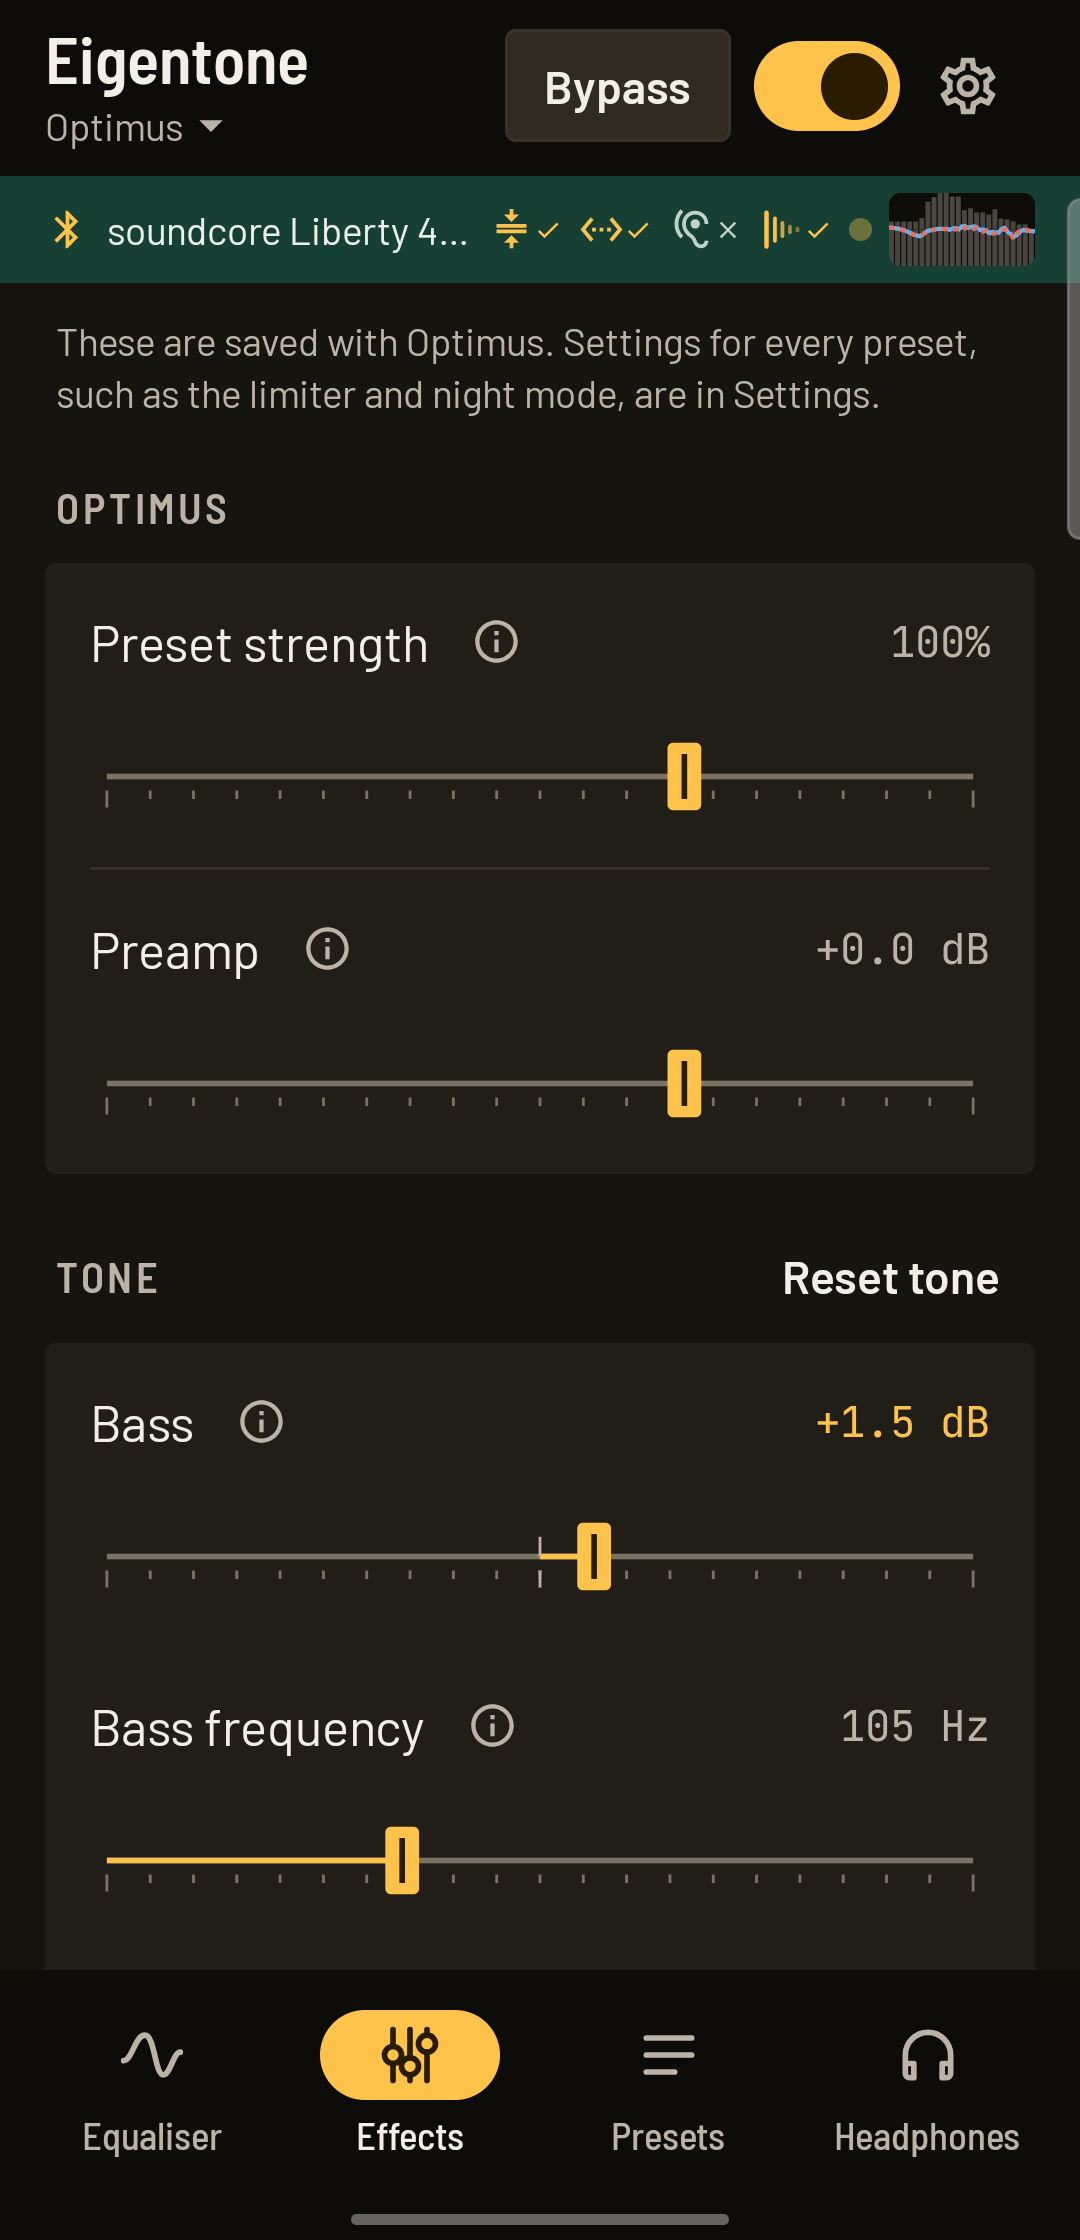
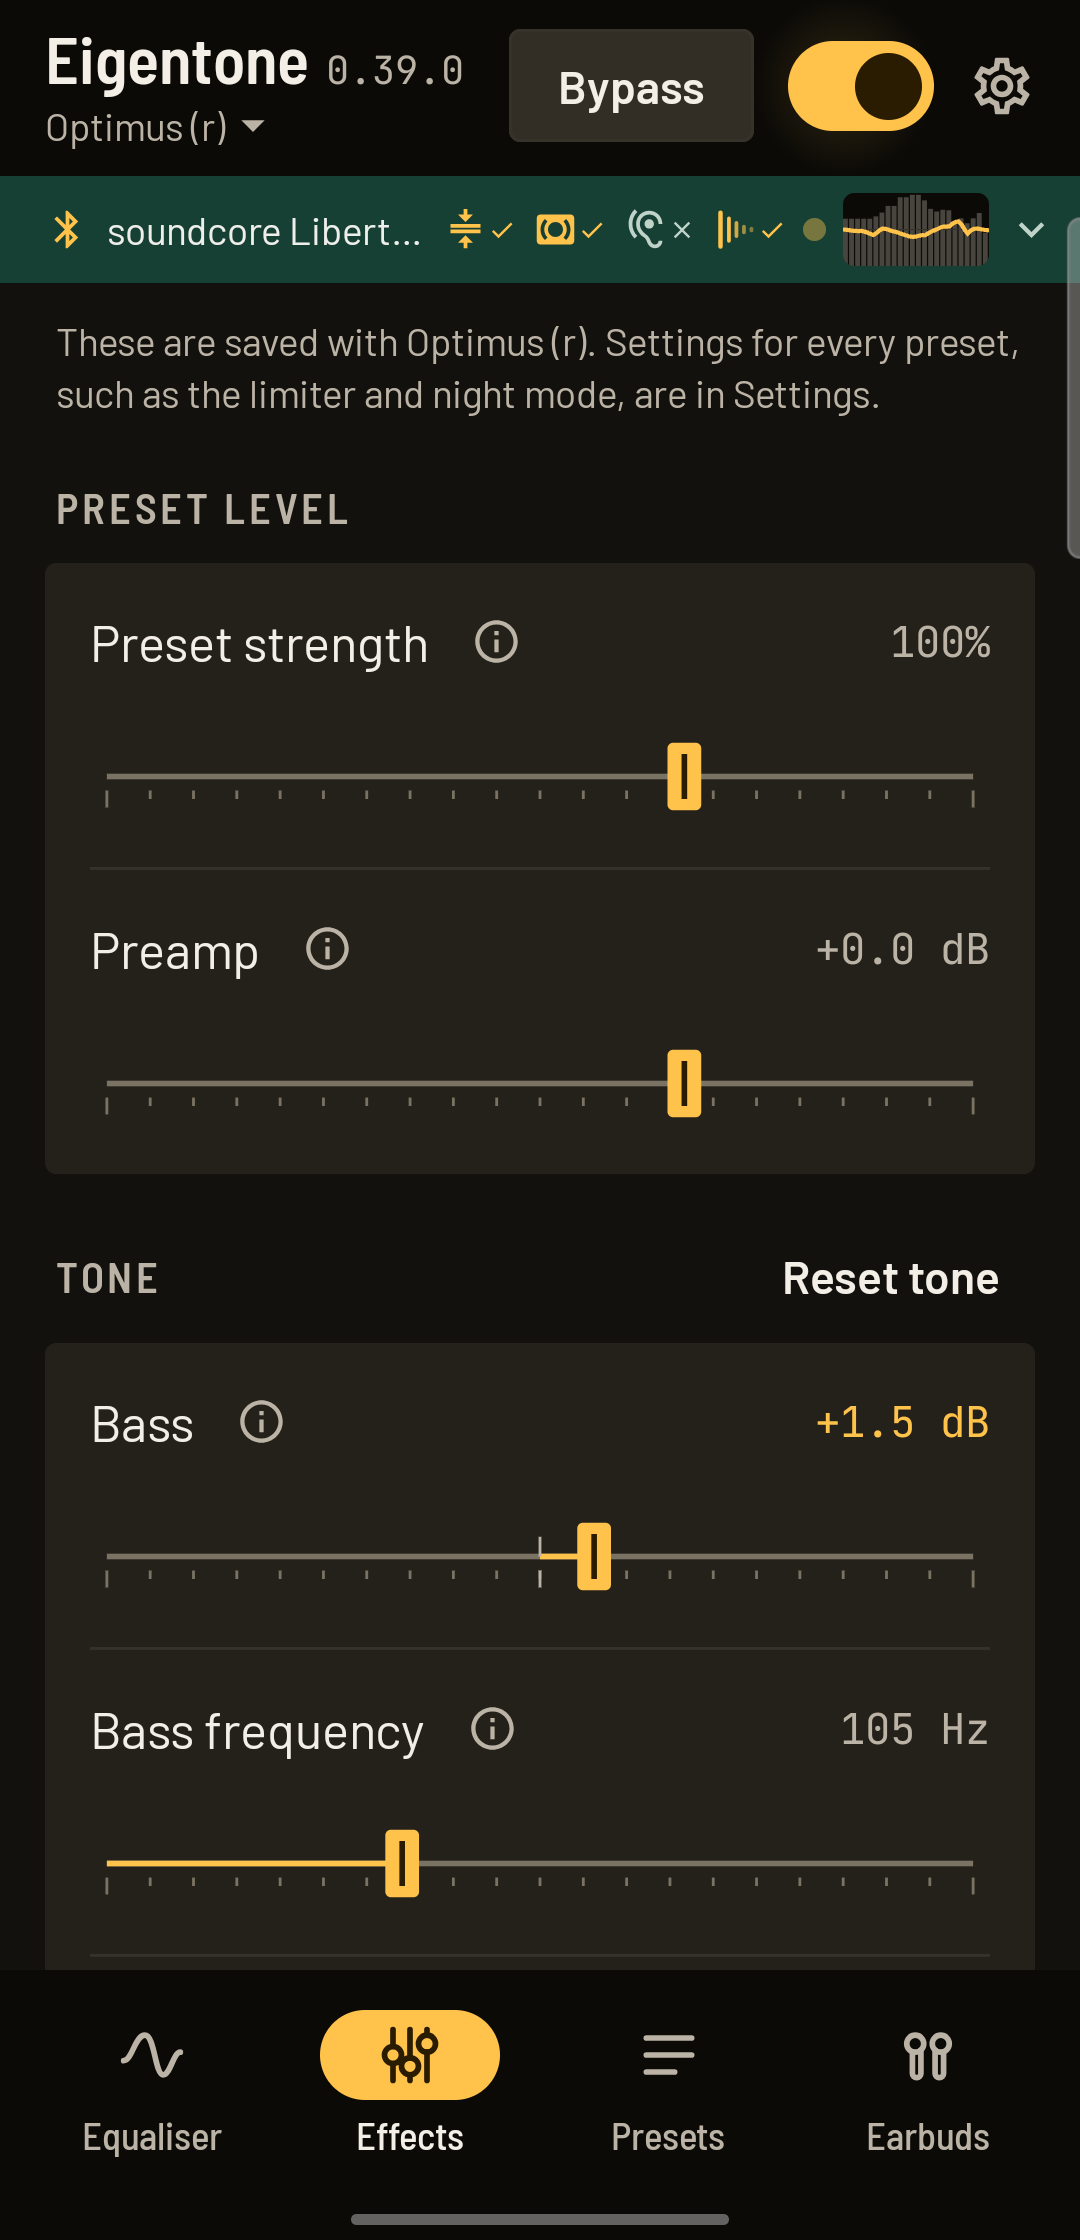
Retake the README and store screenshots on 0.39.0

diff --git a/README.md b/README.md
@@ -24,10 +24,10 @@
 </p>
 
 <p align="center">
-  <img src="fastlane/metadata/android/en-US/images/phoneScreenshots/01-equaliser.png" width="19%" alt="Equaliser tab: a corrected curve for each ear over the live spectrum, with the graphic EQ faders">
+  <img src="fastlane/metadata/android/en-US/images/phoneScreenshots/01-equaliser.png" width="19%" alt="Equaliser tab: the EQ curve with a soft fill over the live spectrum, and the graphic EQ faders">
   <img src="fastlane/metadata/android/en-US/images/phoneScreenshots/02-effects.png" width="19%" alt="Effects tab: preset strength, preamp and tone controls">
-  <img src="fastlane/metadata/android/en-US/images/phoneScreenshots/03-presets.png" width="19%" alt="Presets tab: your presets and the corrections for the connected earbuds">
-  <img src="fastlane/metadata/android/en-US/images/phoneScreenshots/04-headphones.png" width="19%" alt="Headphones tab: headphone correction and the preset that loads automatically">
+  <img src="fastlane/metadata/android/en-US/images/phoneScreenshots/03-presets.png" width="19%" alt="Presets tab: your presets, with a favourite starred, and the corrections for the connected earbuds">
+  <img src="fastlane/metadata/android/en-US/images/phoneScreenshots/04-headphones.png" width="19%" alt="Earbuds tab, named after what is connected: headphone correction and the preset that loads automatically">
   <img src="fastlane/metadata/android/en-US/images/phoneScreenshots/05-settings.png" width="19%" alt="Settings: volume, level, stereo, theme and Advanced controls">
 </p>
 
